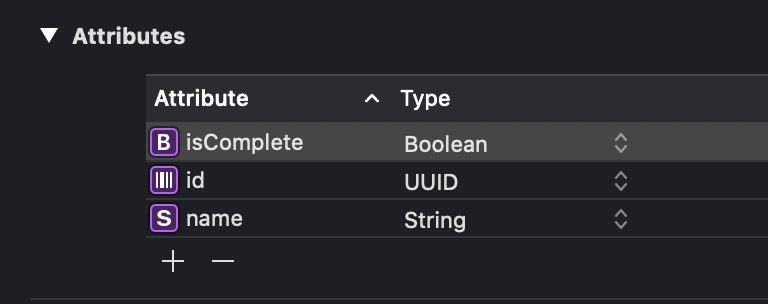
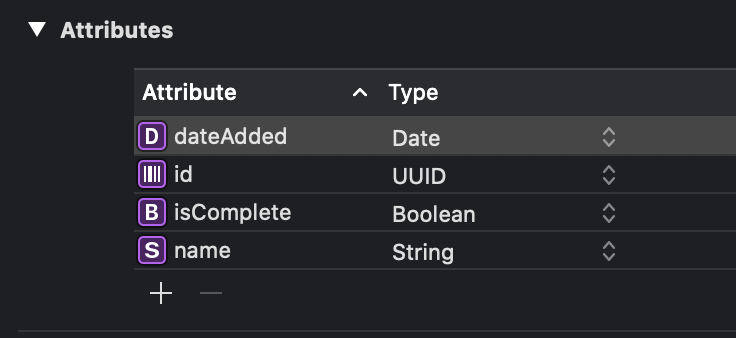
Updating to have dateadded to sort by

diff --git a/Readme.md b/Readme.md
@@ -46,6 +46,7 @@ This table describes each attribute and the type associated with the attribute.
 | id | UUID |
 | name | String |
 | isComplete | Bool |
+| dateAdded | Date |
 
 The `ProjectName.xcdatamodeld` should now look like the picture below.
 
@@ -126,6 +127,8 @@ struct ContentView_Previews: PreviewProvider {
 
 ```
 
+Since we are using SwiftUI, if you use the canvas, you can see what the UI looks like without having to run the app in the simulator.
+
 ### What did we do?
 
 I'm going to explain the parts of `@State private var taskName: String = ""` and why we needed to do this. 
@@ -180,12 +183,19 @@ func addTask() {
 
 In `addTask()`, we made a new Task object and then gave the attributes of `newTask` values. Then we use the `save()` on context to add it to CoreData.
 
-## 3.3 
+Here is what the UI looks like so far.
 
+![](https://github.com/maeganjwilson/taskList/blob/master/images/ui-taskbutton.png?raw=true)
 
+## 3.3 Creating the Task List
 
+It's finally time to create the task list!
 
+First, we need to make a fetch request to get the tasks that are added. Here's what we need to add the `ContentView`.
 
+```swift
+
+```
 
 
 
